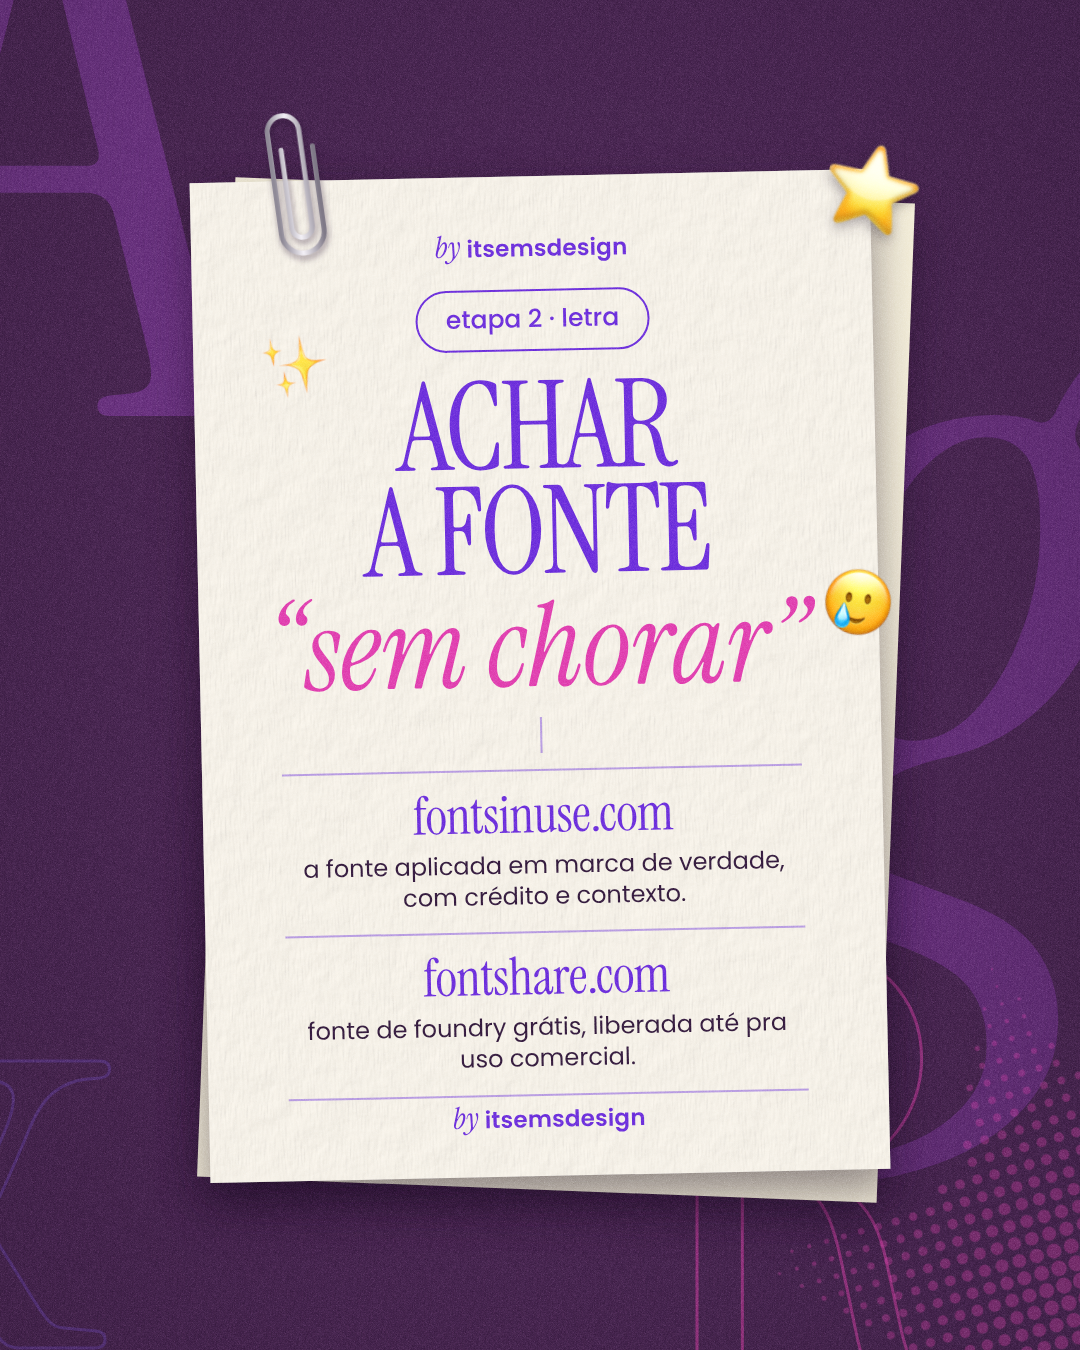
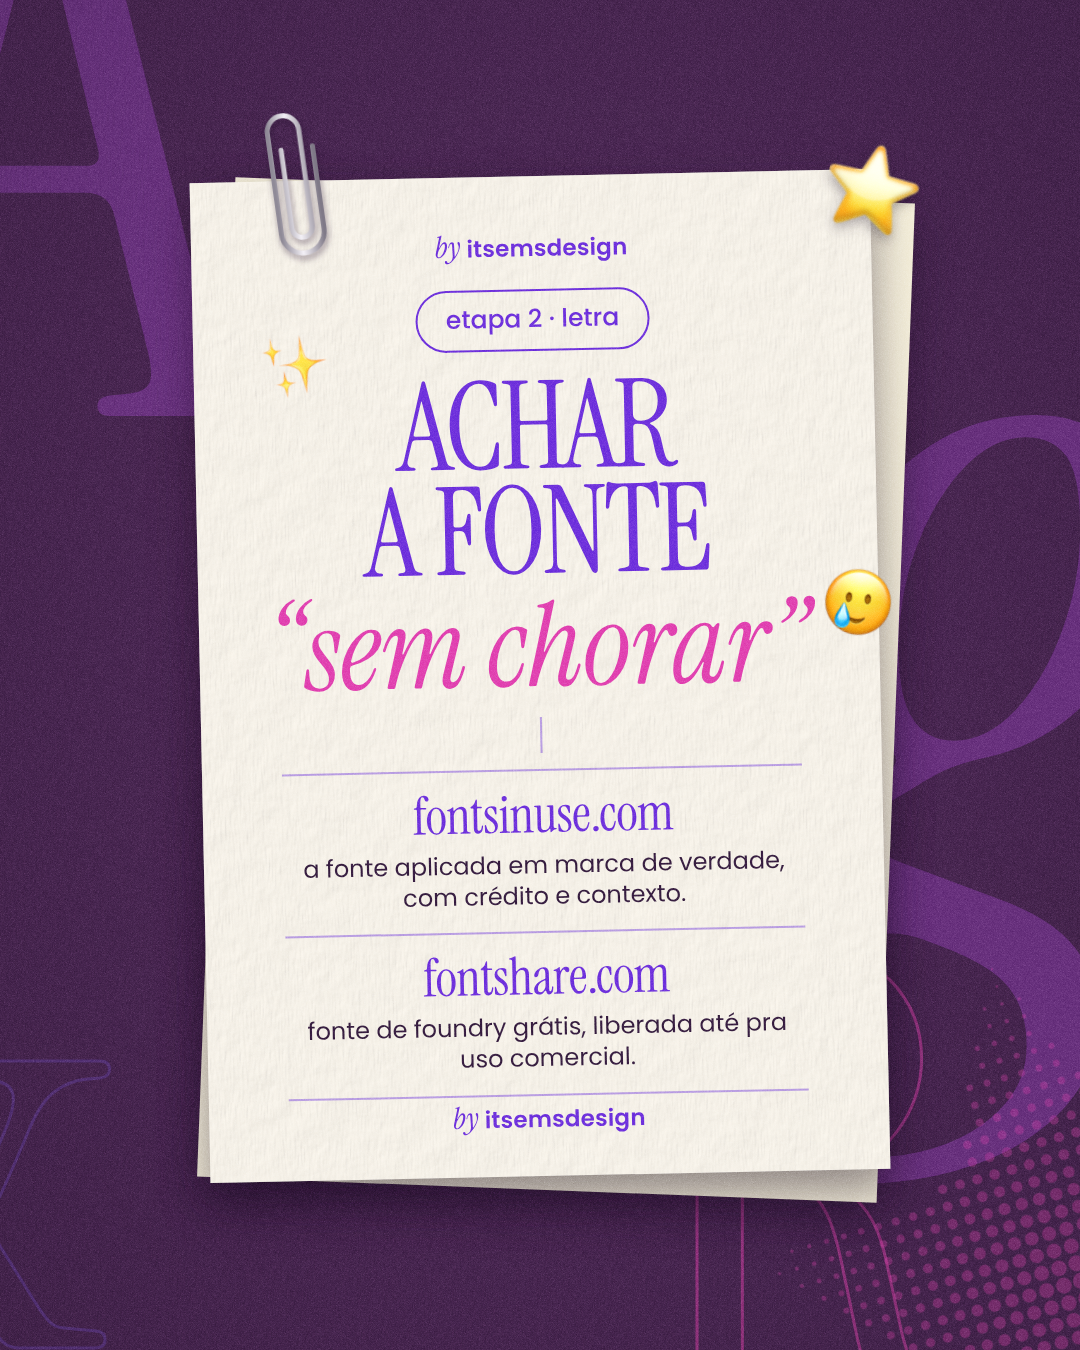
EMS figurinhas raras v4: 'g' atravessa 3|4, cheio na letra e em contorno na cor
Claude-Session: https://claude.ai/code/session_01CmCiKB9wFc4qQovptupnZT

Changed region(s): [[0.825, 0.28, 1.0, 0.5911], [0.825, 0.6222, 1.0, 0.9022]]

diff --git a/Emi/ems-album-figurinhas/projeto/carrossel.html b/Emi/ems-album-figurinhas/projeto/carrossel.html
@@ -180,7 +180,6 @@ const FOLHA = `<div class="abs" style="inset:0;background:var(--ivory-2)"></div>
     <img class="abs" src="emoji/2b50.png" style="left:826px;top:142px;width:92px;transform:rotate(14deg);filter:drop-shadow(0 6px 6px rgba(20,8,26,.35))">
   `, `<div class="abs" style="inset:0;background:var(--ameixa)"></div>
       <div class="abs" style="left:-150px;top:-250px;font-family:var(--serif);font-size:900px;line-height:.8;color:#62287a">A</div>
-      <div class="abs" style="left:720px;top:180px;font-family:var(--serif);font-style:italic;font-size:1050px;line-height:.8;color:#5a2470">g</div>
       <div class="abs" style="left:640px;top:930px;font-family:var(--serif);font-size:640px;line-height:.8;color:transparent;-webkit-text-stroke:3px rgba(221,52,168,.55)">R</div>
       <div class="abs" style="inset:0;background:radial-gradient(ellipse at 50% 45%, transparent 45%, rgba(20,8,26,.22))"></div>
       <div class="abs" style="inset:0;background-image:var(--tx-fibras);background-size:460px;mix-blend-mode:multiply;opacity:.3"></div>`, 'grao-forte');
@@ -223,6 +222,11 @@ const FOLHA = `<div class="abs" style="inset:0;background:var(--ivory-2)"></div>
   const pt = document.getElementById('pontes');
   if (N >= 2) pt.insertAdjacentHTML('beforeend', `<img class="abs" src="${estrelaReticula(820, css('pink'))}" style="left:${W - 410}px;top:930px;width:820px;opacity:.32;transform:rotate(17deg)">`);
   if (N >= 3) pt.insertAdjacentHTML('beforeend', `<div class="abs" style="left:${2 * W - 330}px;top:800px;font-family:var(--serif);font-size:740px;line-height:.8;color:transparent;-webkit-text-stroke:3px rgba(123,77,242,.22)">&amp;</div>`);
+  if (N >= 4) {
+    const g = (estilo) => `<div class="abs" style="left:${2 * W + 760}px;top:180px;font-family:var(--serif);font-style:italic;font-size:1050px;line-height:.8;${estilo}">g</div>`;
+    pt.insertAdjacentHTML('beforeend', `<div class="abs" style="left:0;top:0;width:${3 * W}px;height:${H}px;overflow:hidden">${g('color:#5a2470')}</div>
+      <div class="abs" style="left:${3 * W}px;top:0;width:${W}px;height:${H}px;overflow:hidden"><div class="abs" style="left:${-3 * W}px;top:0">${g('color:transparent;-webkit-text-stroke:3px rgba(91,33,108,.45)')}</div></div>`);
+  }
   if (N >= 4) pt.insertAdjacentHTML('beforeend', `<img class="abs" src="${estrelaReticula(700, css('pink'))}" style="left:${3 * W - 350}px;top:930px;width:700px;opacity:.3;transform:rotate(-16deg)">`);
 })();
 
